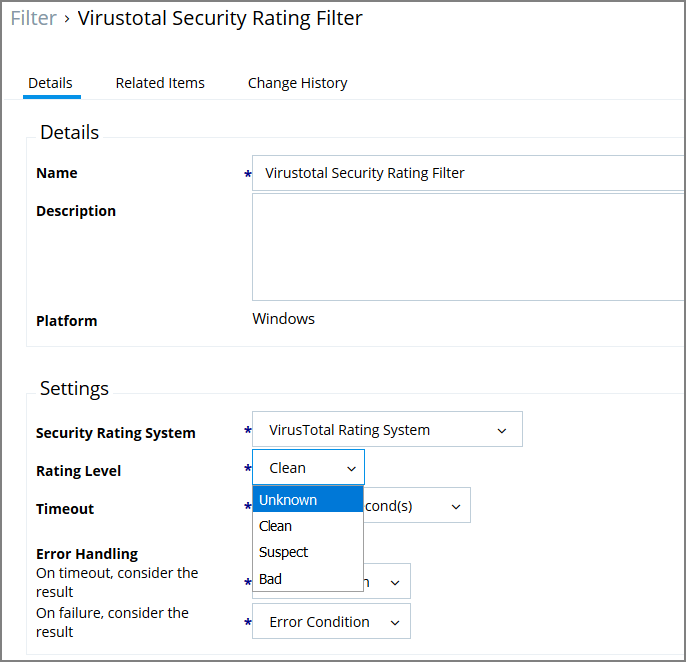
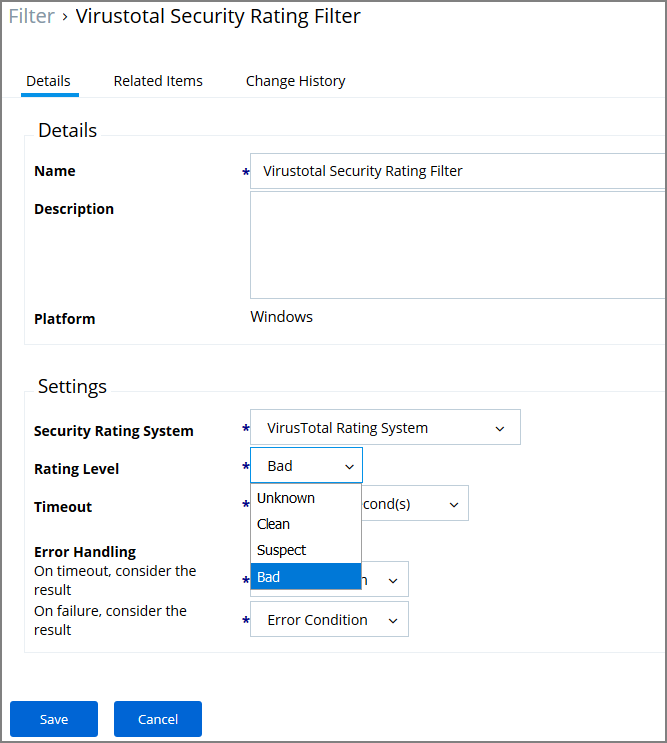
#147773: Edits based on initial review feedback

diff --git a/integration/third-party/set-up-virustotal.md b/integration/third-party/set-up-virustotal.md
@@ -53,6 +53,13 @@ Next you have to create a Security Rating Filter for VirusTotal. Follow these st
    ![Creating the Security Rating Filter](images/virustotal/filter-ratingsystem.png)
 1. Next to VirusTotal Rating System click __+__.
 1. Click __Create__.
+1. Click __Edit__.
+1. Under __Settings__, change the __Rating Level__ drop-down to specify __Bad__. 
+
+   ![Setting the Rating Level to Bad](images/virustotal/filter-details.png)
+
+   The rating level trigger is supposed to match what you want to accomplish with the policy that will be using this filter. A rating level of Bad should be used for Deny policies, and Clean for applications or files that are part of the safe list. A rating level of Suspect can be used in justification and/or learning/discovery policies.
+1. Click __Save__.
 
 ## Creating User's Downloads Location, Temp Dir, and Collection Filters
 
@@ -76,7 +83,7 @@ Next you have to create a Security Rating Filter for VirusTotal. Follow these st
    1. Type __User’s Temp Directory__ to search for the filter.
    1. Click __User’s Temp Directory File Specification Filter__ from the list to add it (this is a default filter).
 
-      ![Both filters added to the collection filter](images/virustotal/collection-filter.png)]
+      ![Both filters added to the collection filter](images/virustotal/collection-filter.png)
    1. Click __Save__.
 
 ## Creating a Policy
